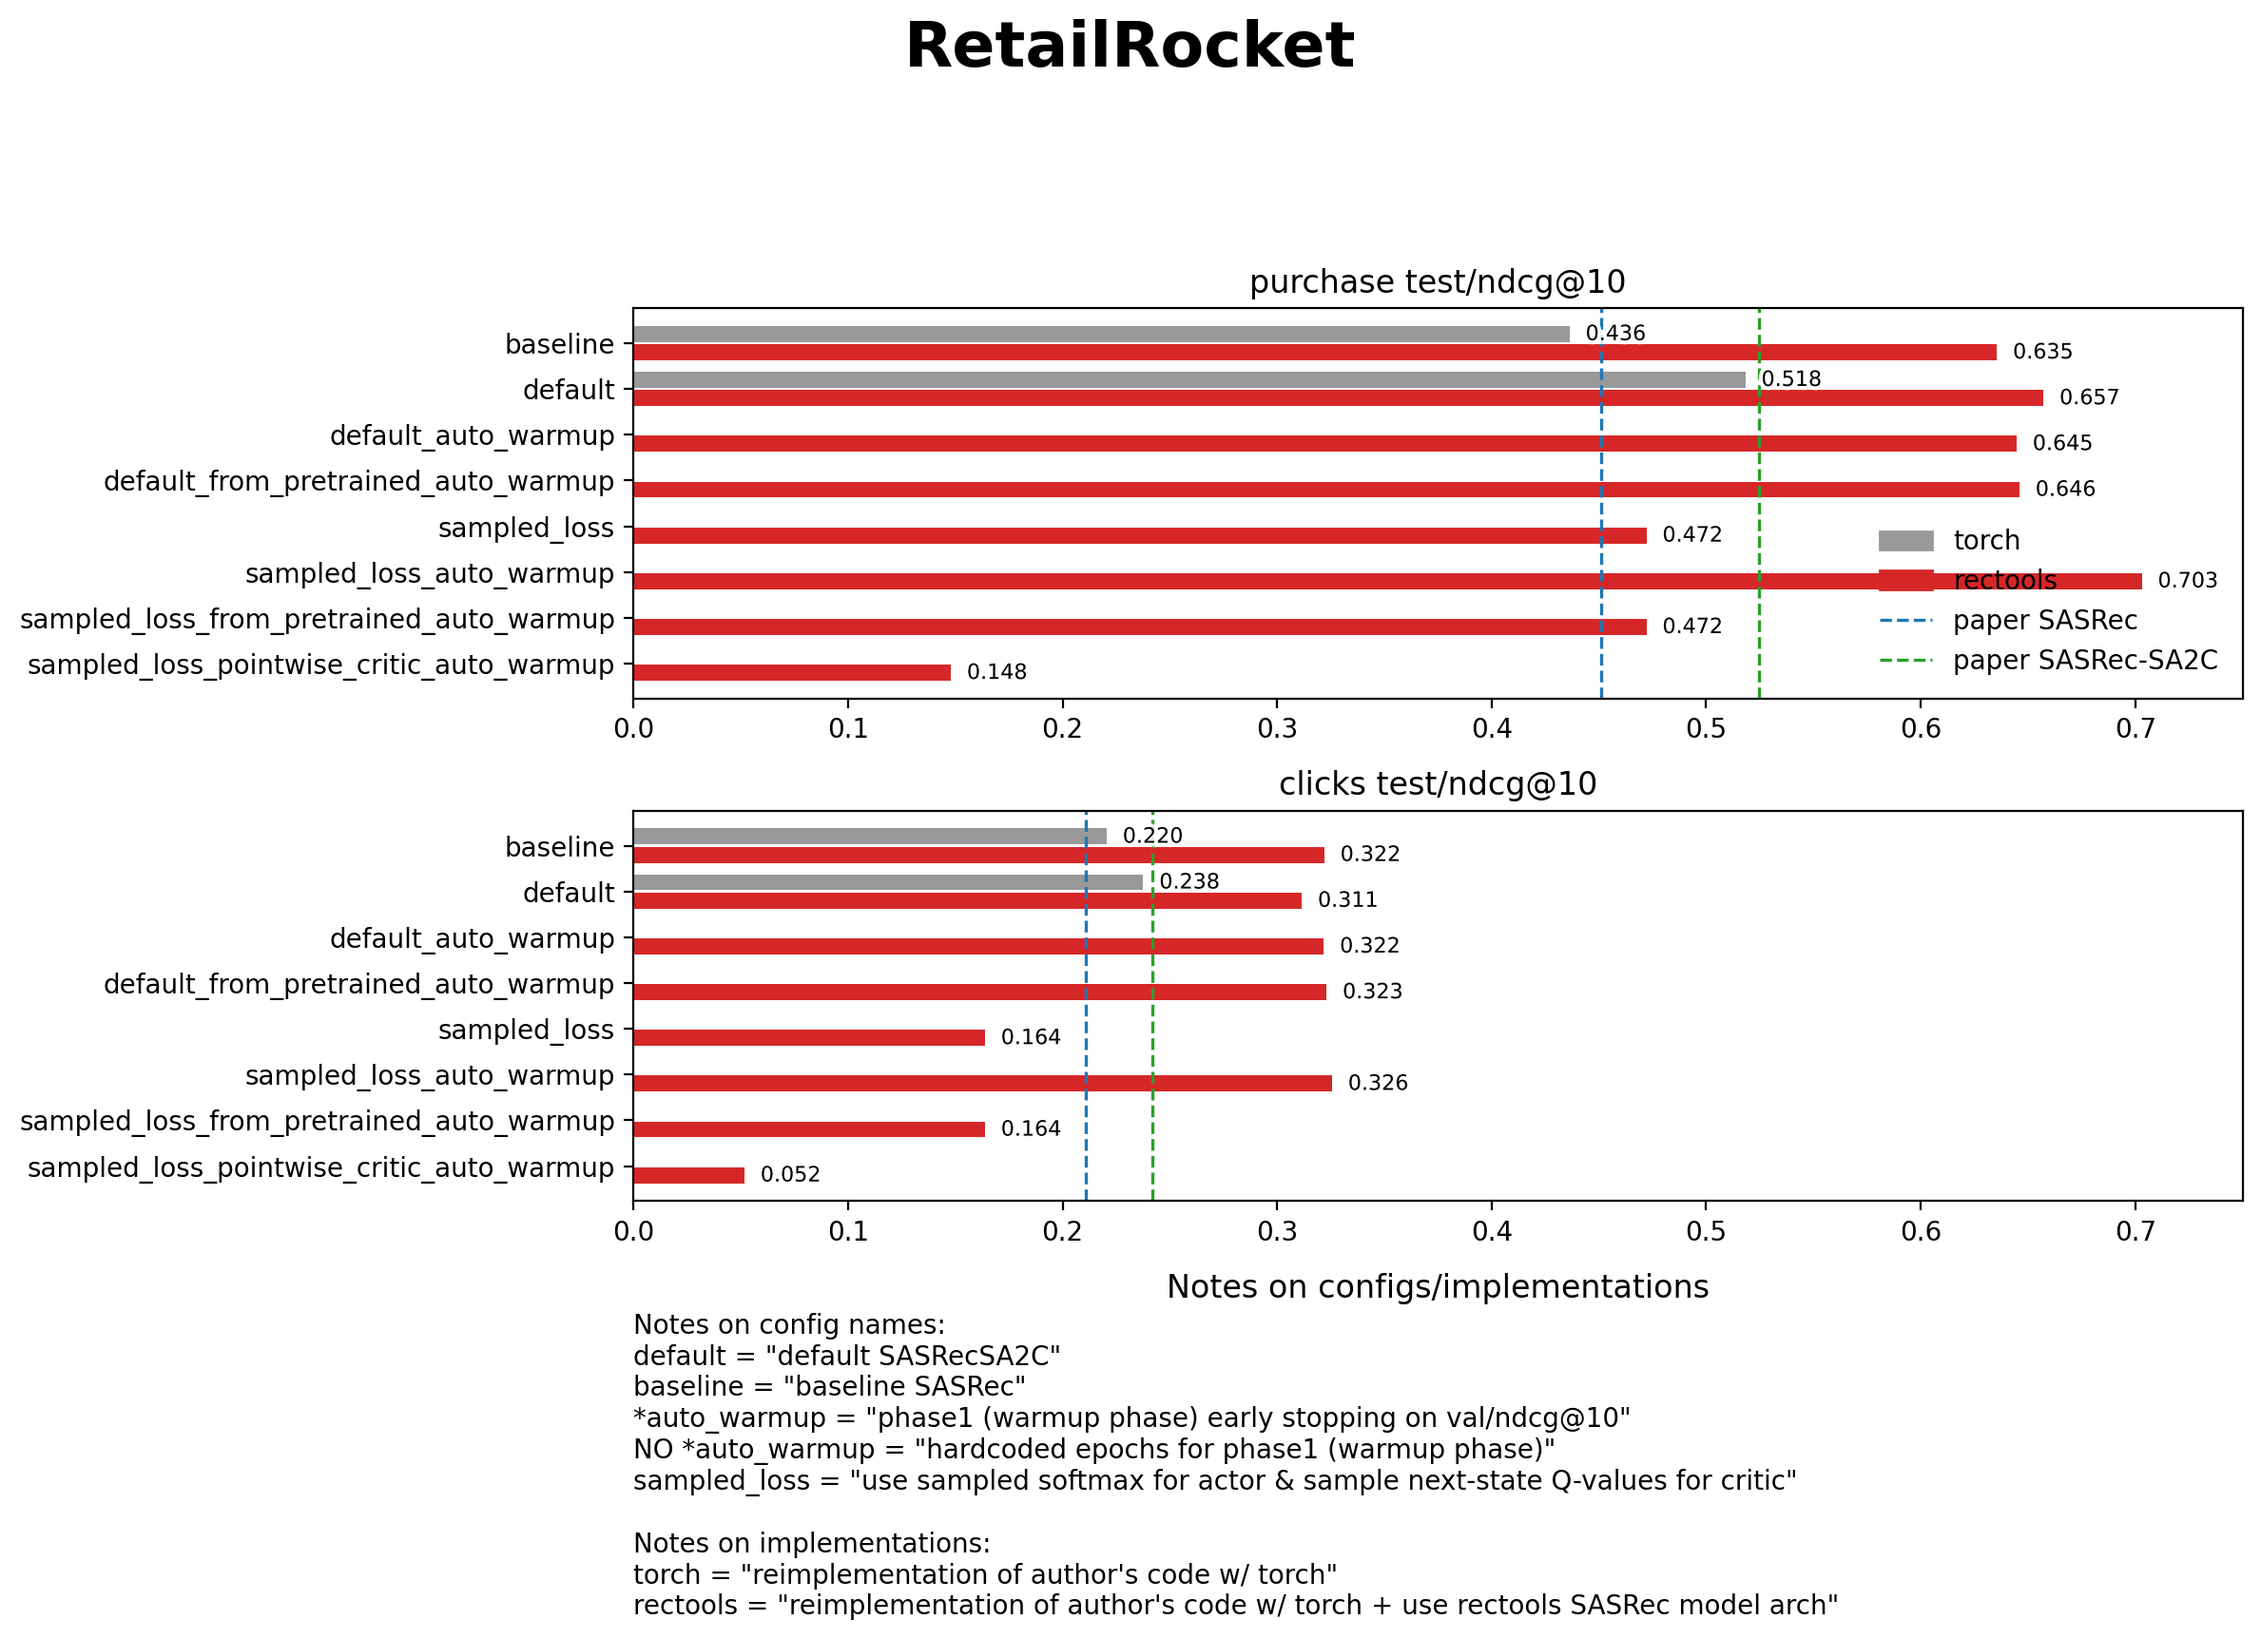
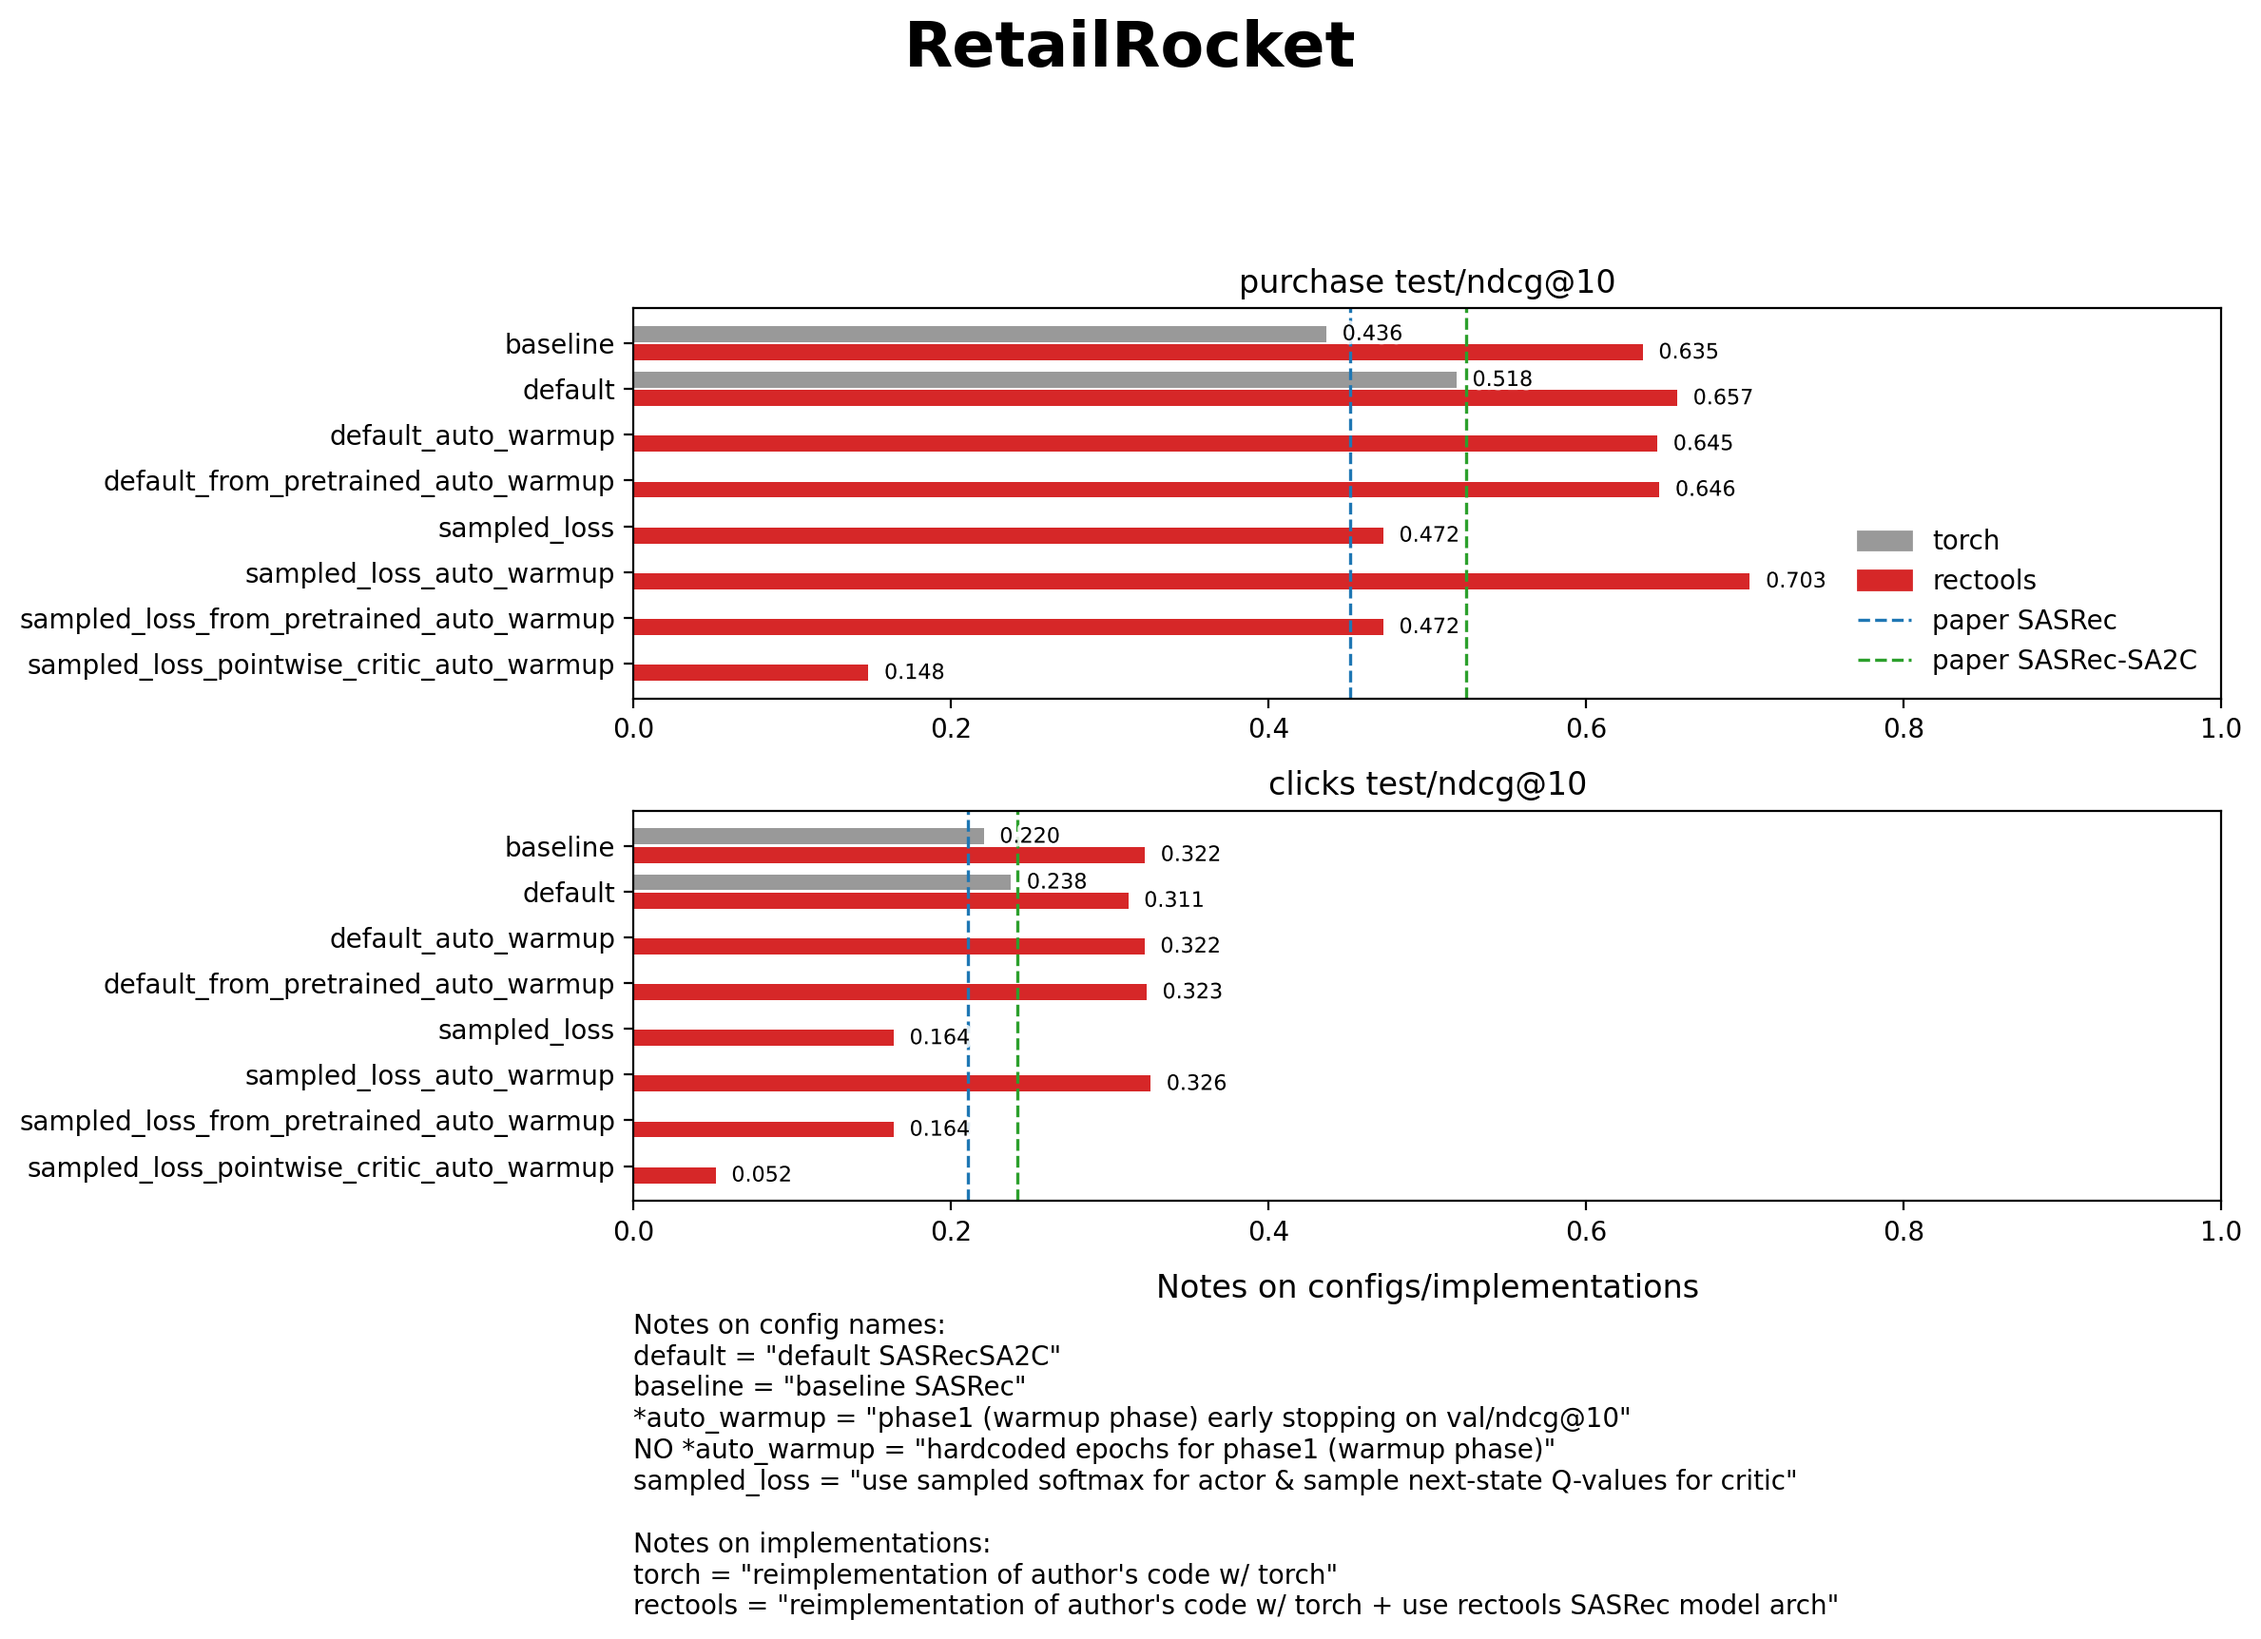
fix plots

diff --git a/COMMANDS.md b/COMMANDS.md
@@ -25,7 +25,7 @@ python scripts/plot_test_results.py  --max-metric-value 0.5
 # examples
 # (omit --dataset to plot all datasets found under logs/)
 python scripts/plot_test_results.py --dataset retailrocket --max-metric-value 0.5
-python scripts/plot_test_results.py --max-metric-value 0.75 0.6 0.2
+python scripts/plot_test_results.py --max-metric-value 1.0 0.6 0.3
 python scripts/plot_test_results.py --script SA2C_SASRec_rectools --dataset persrec_tc5_2025-08-21 --eval-scheme bert4rec_eval
 ```
 
